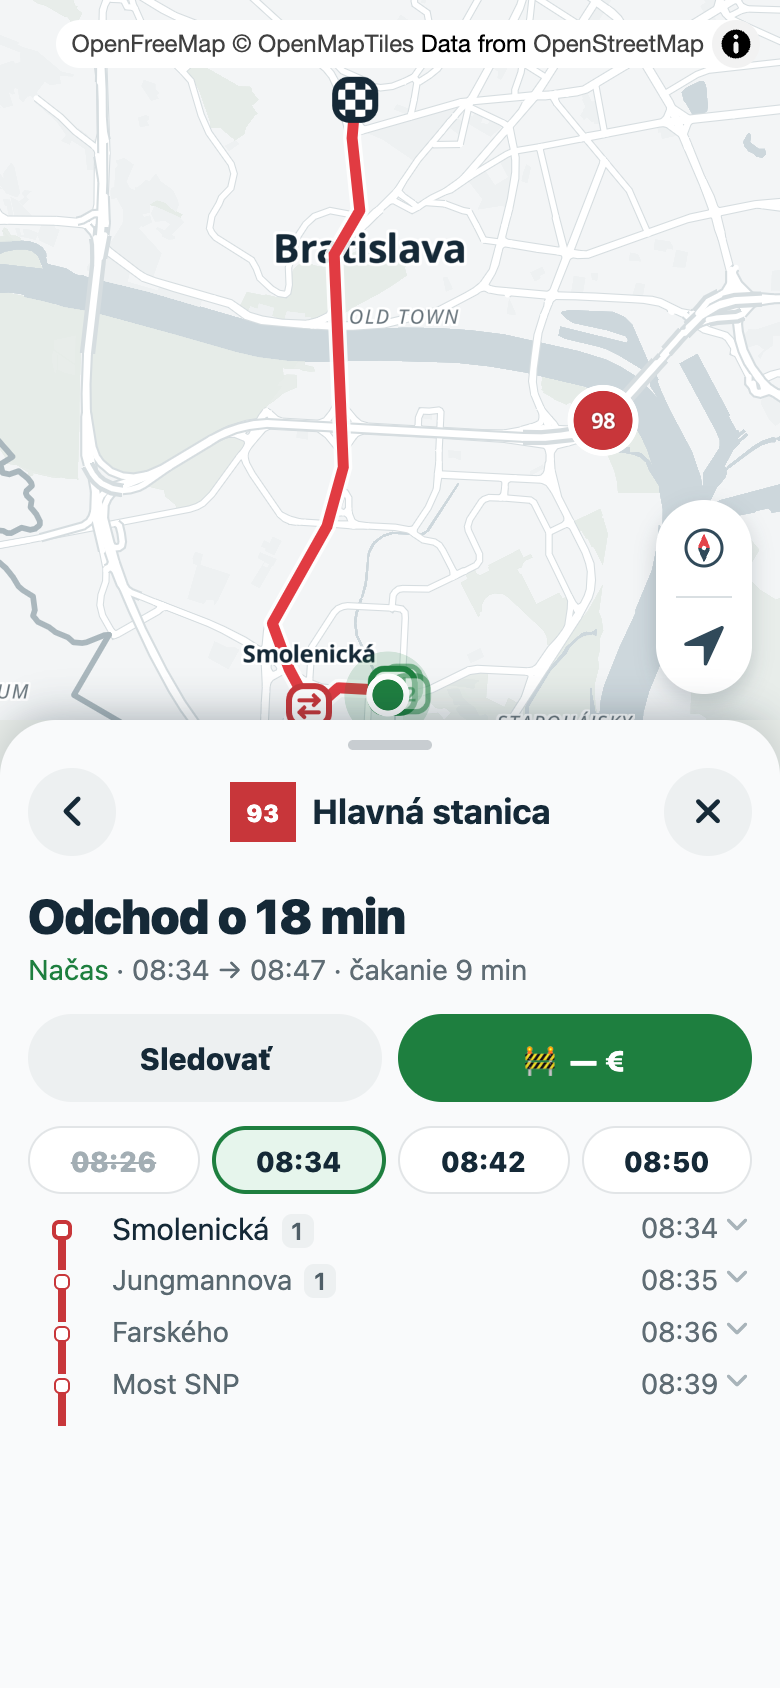
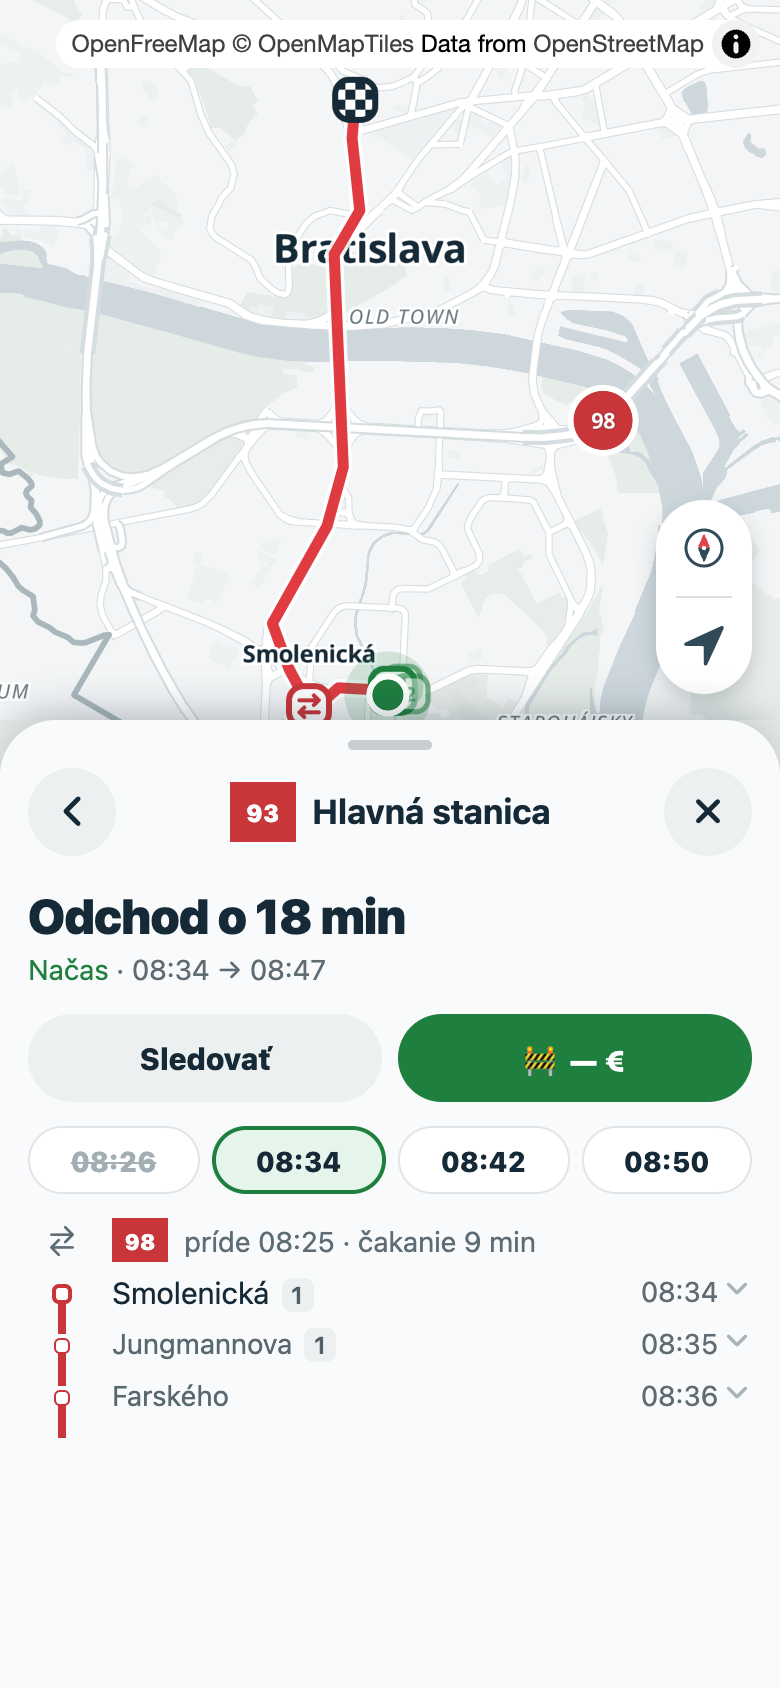
spoj unified journey: rev 3

diff --git a/spoj-unified-journey.html b/spoj-unified-journey.html
@@ -52,7 +52,7 @@ figcaption b{color:var(--text);display:block}
 <body>
 <main>
 <h1>The journey drawer: planner and Jazda as one</h1>
-<p class="sub">Spoj · proposal with mockups · 2026-10-28 · rev 2: decisions folded in, list vs card comparison</p>
+<p class="sub">Spoj · proposal with mockups · 2026-10-28 · rev 3: links between legs, B with hidden ridden legs, position note moved</p>
 
 <div class="card tldr">
 <p><strong>One journey surface.</strong> A journey opened from the planner, from departures or from the map opens in its own <strong>journey drawer</strong>, stacked over the main drawer. It looks the same whether you track it or not; tracking only adds live state (headline, progress bar, vehicle on the rail).</p>
@@ -110,17 +110,21 @@ figcaption b{color:var(--text);display:block}
   <figure><img src="spoj-unified-journey/s10.png" alt=""><figcaption><b>10 · Tier 2 at medium</b>The vertical-space check: headline, CTAs and the one-line chips take ~190 px, leaving four stops visible before you drag up. Chips are 34 px tall instead of the 50 px two-line version.</figcaption></figure>
 </div>
 
-<h2>Tier 1 while tracked: card or plain list</h2>
-<p>Same moment, two treatments of the leg you ride. <b>A</b> (left) folds ridden legs to a ✓ line and raises the current leg into a card. <b>B</b> (right) keeps today's plain list: ridden legs stay in place, greyed, with a ✓; the current leg is ordinary rows with the vehicle on the rail.</p>
-<figure><img src="spoj-unified-journey/cmp.png" alt="" style="max-width:780px;border-radius:12px"></figure>
+<h2>Tier 2: how a trip links to the legs around it</h2>
+<p>One-line chips only carry the time. What a trip means for the journey sits on the schedule's edges, where the link actually happens: <b>above</b> the stops, how you get there from the previous leg; <b>under</b> them, whether you still make the next one. A link that works is a quiet row; one that breaks becomes a warning.</p>
+<figure><img src="spoj-unified-journey/links.png" alt="" style="max-width:1170px;border-radius:12px"></figure>
+<p class="small">Left: the planned 93, the link from 98 above (arrives 08:25, wait 9 min). Middle: the earlier 93 at 08:26 (struck-through chip) selected anyway; the warning above says why you can't make it. Right: a later 98; the warning under the stops says you miss the 93 and what that costs. Chips hide on the leg you are riding.</p>
+
+<h2>Tier 1 while tracked: A, B with ridden legs hidden, B</h2>
+<p>The position note (<i>Nasleduje Zochova</i>) moved out of the leg into the headline meta, in all three, so nothing sits between the leg's title and its stops. The middle one is the proposal: B's plain timeline, but ridden legs hide behind <i>Zobraziť predchádzajúce (n)</i>, the same way passed stops do in tier 2 and single-leg journeys today. Tapping it unfolds to the right one: the ridden legs in full, greyed.</p>
+<figure><img src="spoj-unified-journey/cmp3.png" alt="" style="max-width:1170px;border-radius:12px"></figure>
 <table>
-<tr><th></th><th>A · card</th><th>B · plain list</th></tr>
-<tr><td>Finding "now"</td><td>Instant: the raised card</td><td>Through colour: grey above, red from here</td></tr>
-<tr><td>Space at medium</td><td>Fits the walk to the destination</td><td>~70 px taller; the last step scrolls</td></tr>
-<tr><td>Consistency</td><td>A new surface that only exists while tracked</td><td>Same rows as untracked tier 1 (2) and today's Jazda; tracking only recolours</td></tr>
-<tr><td>Morph</td><td>Card appears and disappears as legs change</td><td>Nothing jumps; rows grey out in place</td></tr>
+<tr><th></th><th>A · card</th><th>B, ridden hidden</th><th>B · all shown</th></tr>
+<tr><td>Active leg in view</td><td>Yes</td><td>Yes, top of the list</td><td>Pushed down by every ridden leg</td></tr>
+<tr><td>Consistency</td><td>A surface only tracking has</td><td>Same rows as planning, same "show previous" as tier 2</td><td>Same rows as planning</td></tr>
+<tr><td>When a leg ends</td><td>Card jumps to the next leg</td><td>Leg joins the hidden ones, count goes up</td><td>Leg greys out in place</td></tr>
 </table>
-<p class="small">Recommendation: B. It matches "tracking only adds live state" — the same list as when planning, with ridden parts greyed — and nothing reflows when a leg ends. A is worth it only if long journeys make "where am I" hard to spot, and the progress bar plus tier 2 already answer that.</p>
+<p class="small">Recommendation: the middle one. It keeps the unified timeline and gets the active leg into view like A does.</p>
 
 <h2>What changes in code</h2>
 <table>
@@ -144,9 +148,9 @@ figcaption b{color:var(--text);display:block}
 <ol class="q">
 <li><strong>Untracked journeys don't tuck.</strong> ✕ dismisses them. Exception kept from #92: leaving the app with a journey open that departs within 30 min tracks it, so it comes back as the pill.</li>
 <li><strong>The pill reopens at the active leg's tier 2</strong> while you ride, and at tier 1 while you wait or walk. The back stack is built as if you had navigated there, so back from 7 goes to tier 1, then tucks.</li>
-<li><strong>Alternatives in tier 2 as one-line chips</strong>, plus the existing swipe on tier 1 rows. Chips hide on a leg you are riding. The CTAs sit above them on every tier, so the ticket stays reachable throughout.</li>
+<li><strong>Alternatives in tier 2 as one-line chips</strong>, plus the existing swipe on tier 1 rows. How a trip links to the previous leg shows above the schedule, to the next leg under it; a broken link turns into a warning. Chips hide on a leg you are riding. The CTAs sit above them on every tier, so the ticket stays reachable throughout.</li>
 <li><strong>The main drawer is hidden</strong> while a journey is open.</li>
-<li><strong>Open: card or plain list for the current leg in tier 1</strong>, see the comparison above. Recommended: plain list.</li>
+<li><strong>Tier 1 while tracked: plain list, ridden legs hidden</strong> behind <i>Zobraziť predchádzajúce (n)</i>; the position note lives in the headline meta. (Proposed, see above.)</li>
 </ol>
 </main>
 </body>
